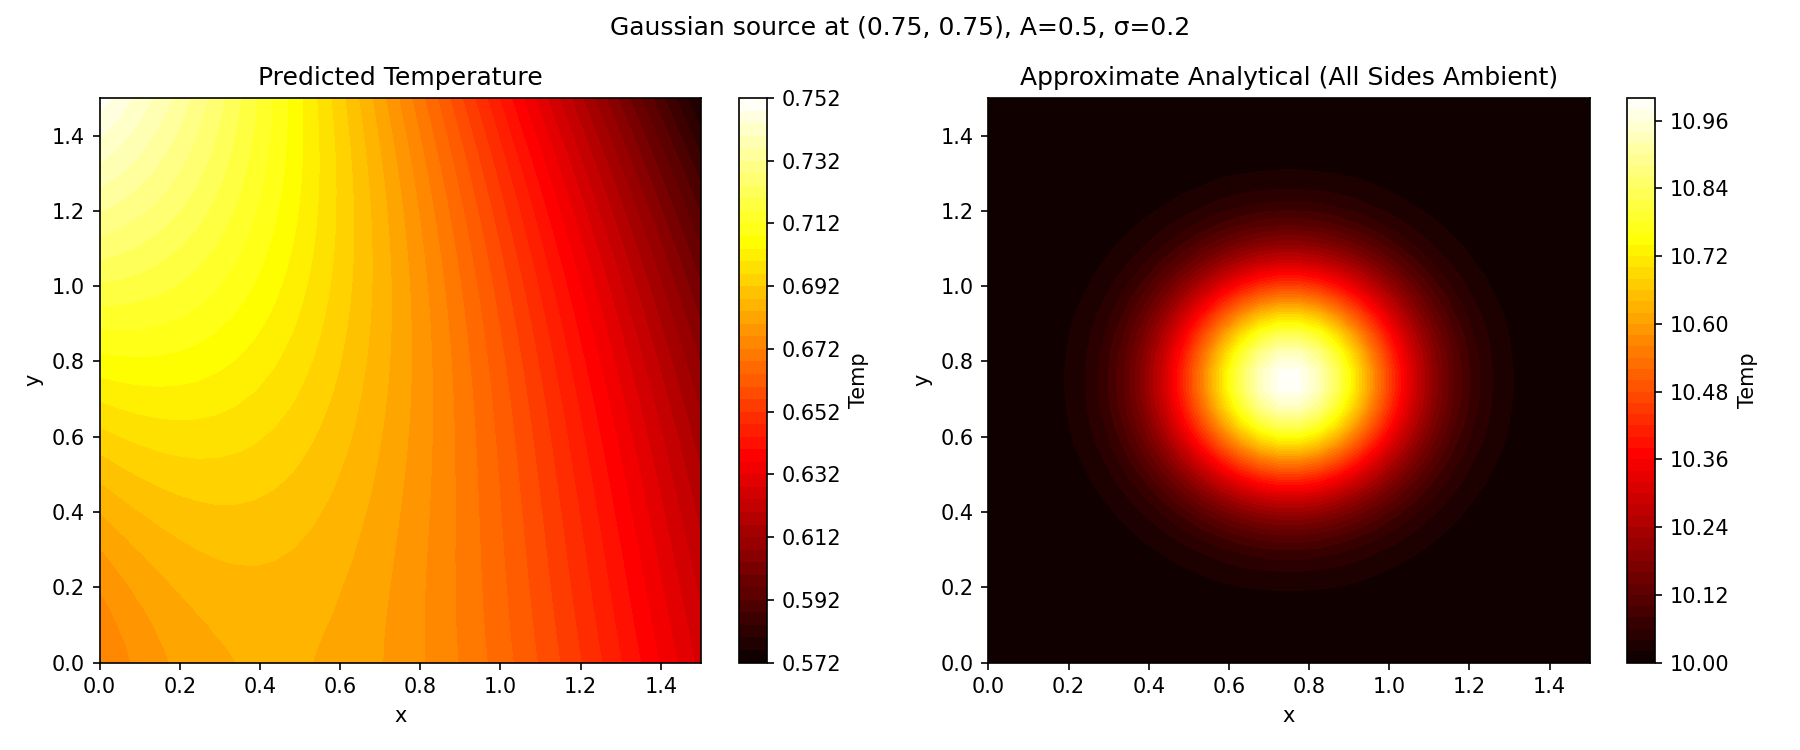
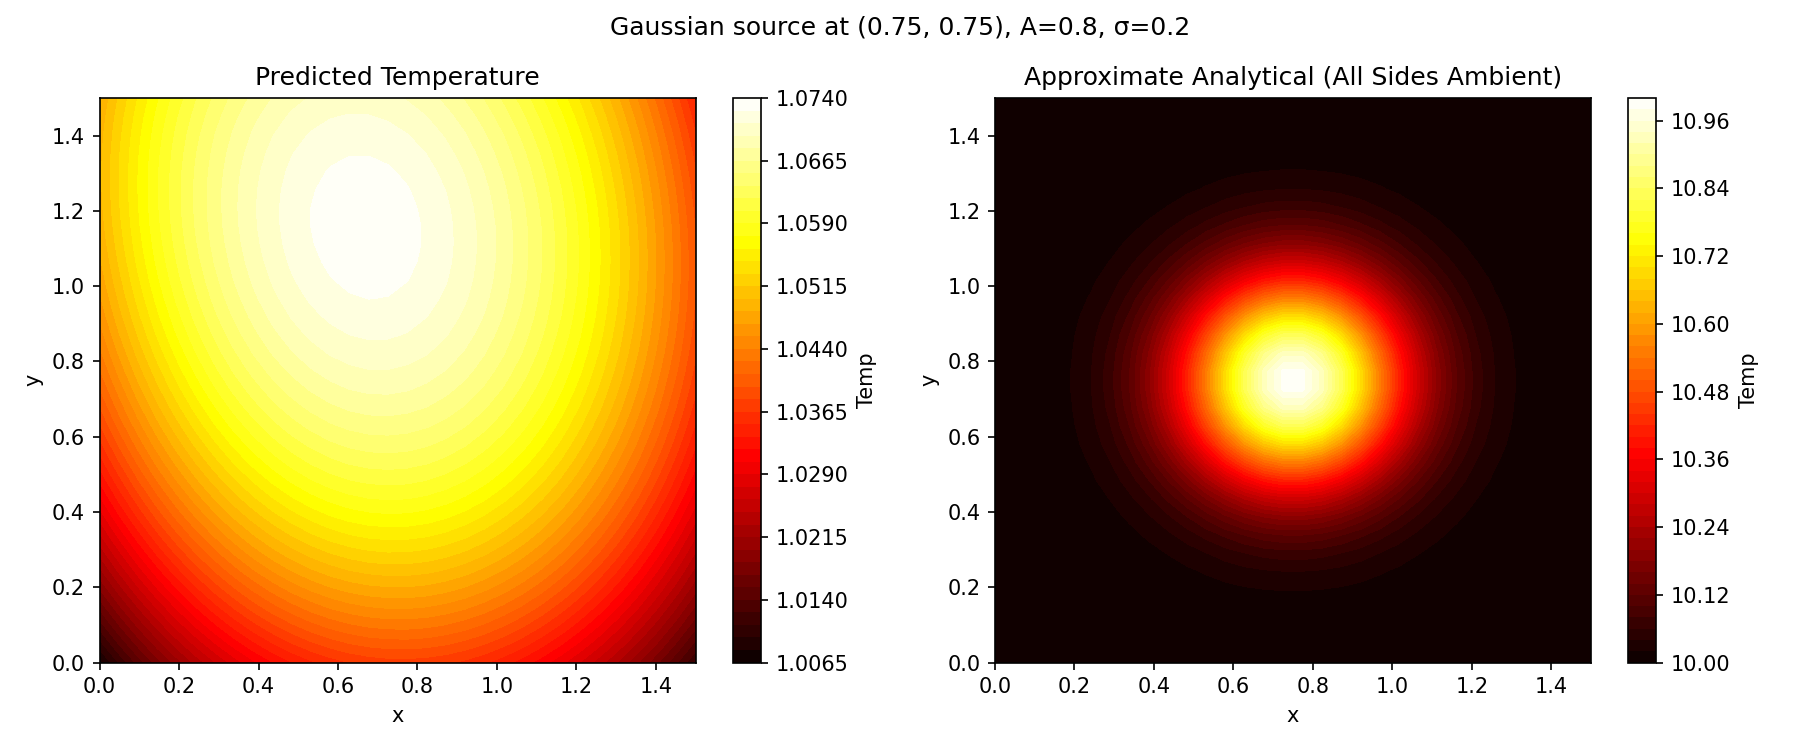
it trains

diff --git a/examples/copper_plate_v0/copper_plate_v0.py b/examples/copper_plate_v0/copper_plate_v0.py
@@ -30,13 +30,13 @@ grid = Grid(plate, units=0.05)
 model = FixedPlateModel(plate=plate, grid=grid, temp_scale=1000)
 model.default_model(device='cuda:0')
 
-ps1 = Gaussian(x=1.3, y=0.9, spread=0.3, amplitude=0.8)
+ps1 = Gaussian(x=1.3, y=0.9, spread=0.3, amplitude=0.65)
 print('power source 1: ', ps1.asDict())
-ps2 = Gaussian(x=0.1, y=0.3, spread=0.3, amplitude=0.8)
+ps2 = Gaussian(x=0.1, y=0.3, spread=0.5, amplitude=1.0)
 print('power source 2: ', ps2.asDict())
 
 print('\nBEGIN TRAINING\n')
-losses = model.train_multi_set([ps1, ps2],1100)
+losses = model.train_multi_set([ps1, ps2],10000)
 # losses = model.train_plate(power_source,1000)
 # print(losses)
 
@@ -53,7 +53,7 @@ plot_util.plot_predicted_temperature(model, grid, plate, ps2, save_dir=save_dir)
 plot_util.plot_temperature_comparison(model, grid, plate, ps2, ambient=10, save_dir=save_dir)
 
 # eval w new power source
-power_source = Gaussian(x=0.75, y=0.75, spread=0.2, amplitude=0.5)
+power_source = Gaussian(x=0.75, y=0.75, spread=0.2, amplitude=0.8)
 print('power source: ', power_source.asDict())
 plot_util.plot_predicted_temperature(model, grid, plate, power_source, save_dir=save_dir)
 plot_util.plot_temperature_comparison(model, grid, plate, power_source, ambient=10, save_dir=save_dir)

diff --git a/src/pinns.py b/src/pinns.py
@@ -87,7 +87,7 @@ class FixedPlateModel(Component):
 
 
 
-    def train_plate(self, power: Gaussian, epochs=10) -> pd.DataFrame:
+    def train_plate(self, power: Gaussian, epochs=10, e_start=0) -> pd.DataFrame:
         ''' train across all points on plate '''
         if self.model is None:
             self.default_model()
@@ -96,7 +96,6 @@ class FixedPlateModel(Component):
 
         loss_list = []
         for e in range(epochs):
-            print(f'sub_epoch: {e}')
             self.optimizer.zero_grad()
 
             loss_parts = dict()
@@ -142,7 +141,8 @@ class FixedPlateModel(Component):
             #         print(f"\t\t\t{name}: grad norm = {p.grad.norm():.6f}")
             self.optimizer.step()
 
-            print(f'\ttotal_loss: ', total_loss)
+            if e % (epochs // 10) == 0:
+                print(f'\tsub_epoch: {e_start+e}, total_loss: ', total_loss)
             loss_parts['total'] = total_loss.item()
             loss_list.append(loss_parts)
             # print(f'\t loss_parts: {loss_parts}')
